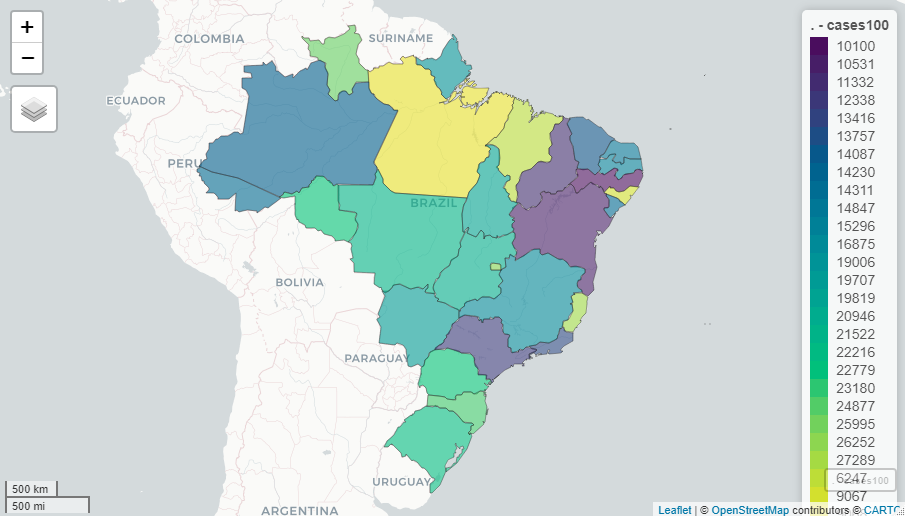
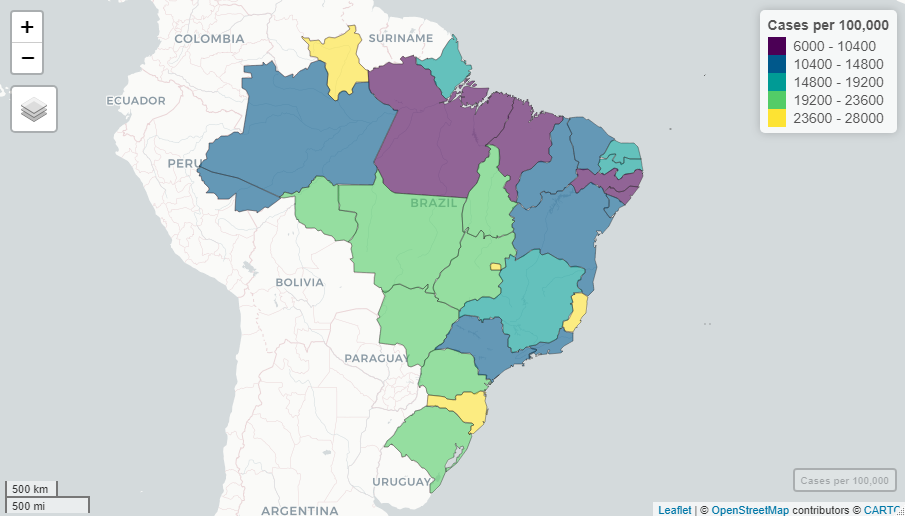
Update the chart from the README file

Changed region(s): [[0.3094, 0.031, 0.7116, 0.9612], [0.8354, 0.0, 1.0, 1.0]]

diff --git a/README.md b/README.md
@@ -28,7 +28,7 @@ follows:
     (COVID-19) for the 5,570 municipalities in Brazil
 
 The graph below shows the number of cases accumulated in each Federative
-Unit of Brazil per 100,000 inhabitants
+Unit of Brazil per 100,000 inhabitants (data for the day 2022-06-24).
 
 <img src="figures/mapStates.png" width="100%" />
 
